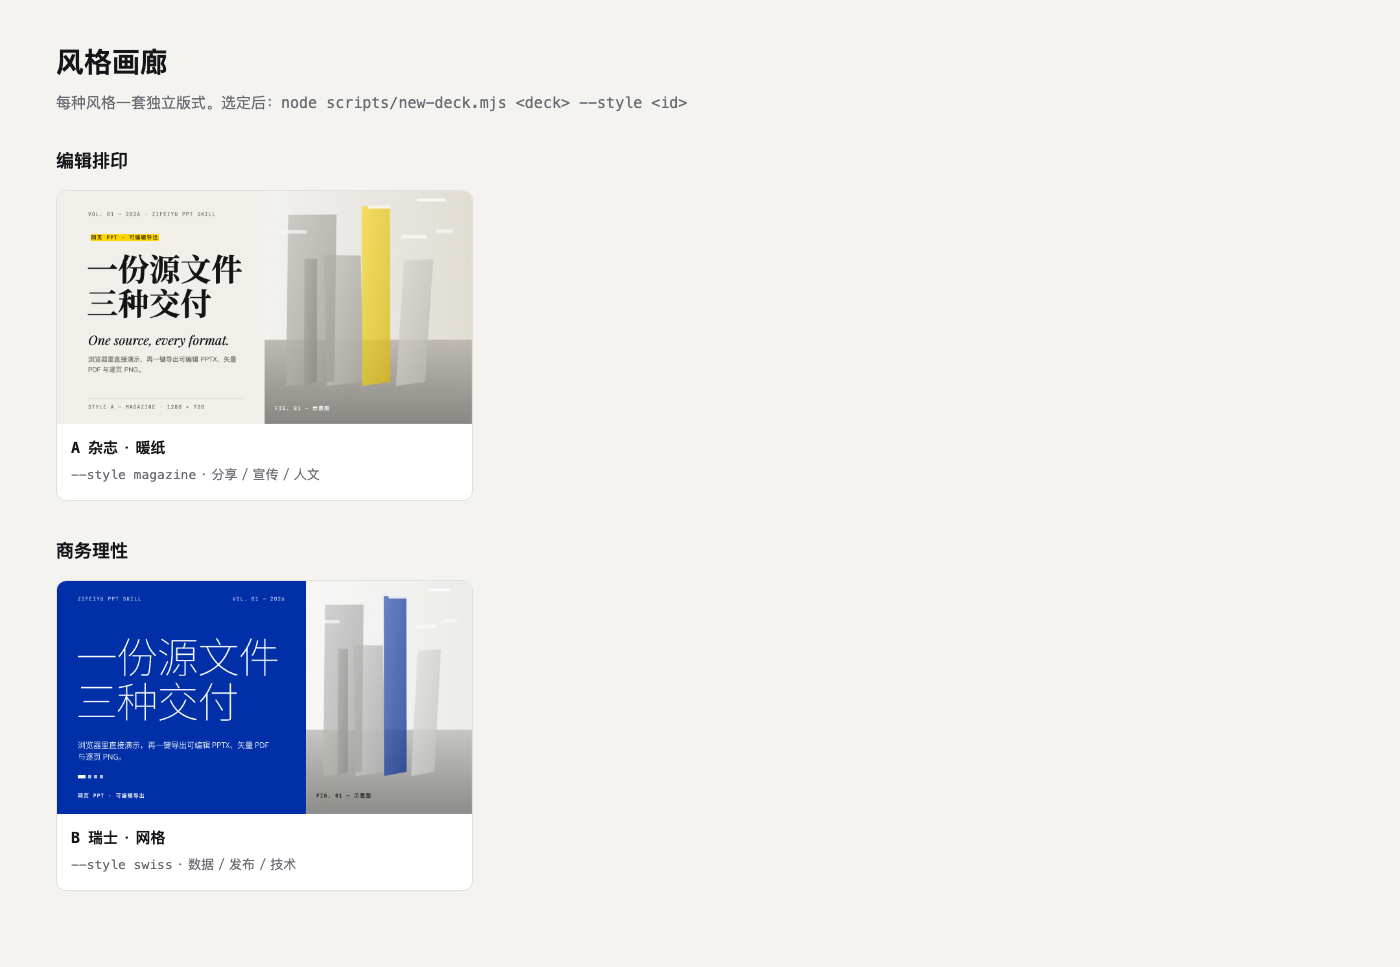
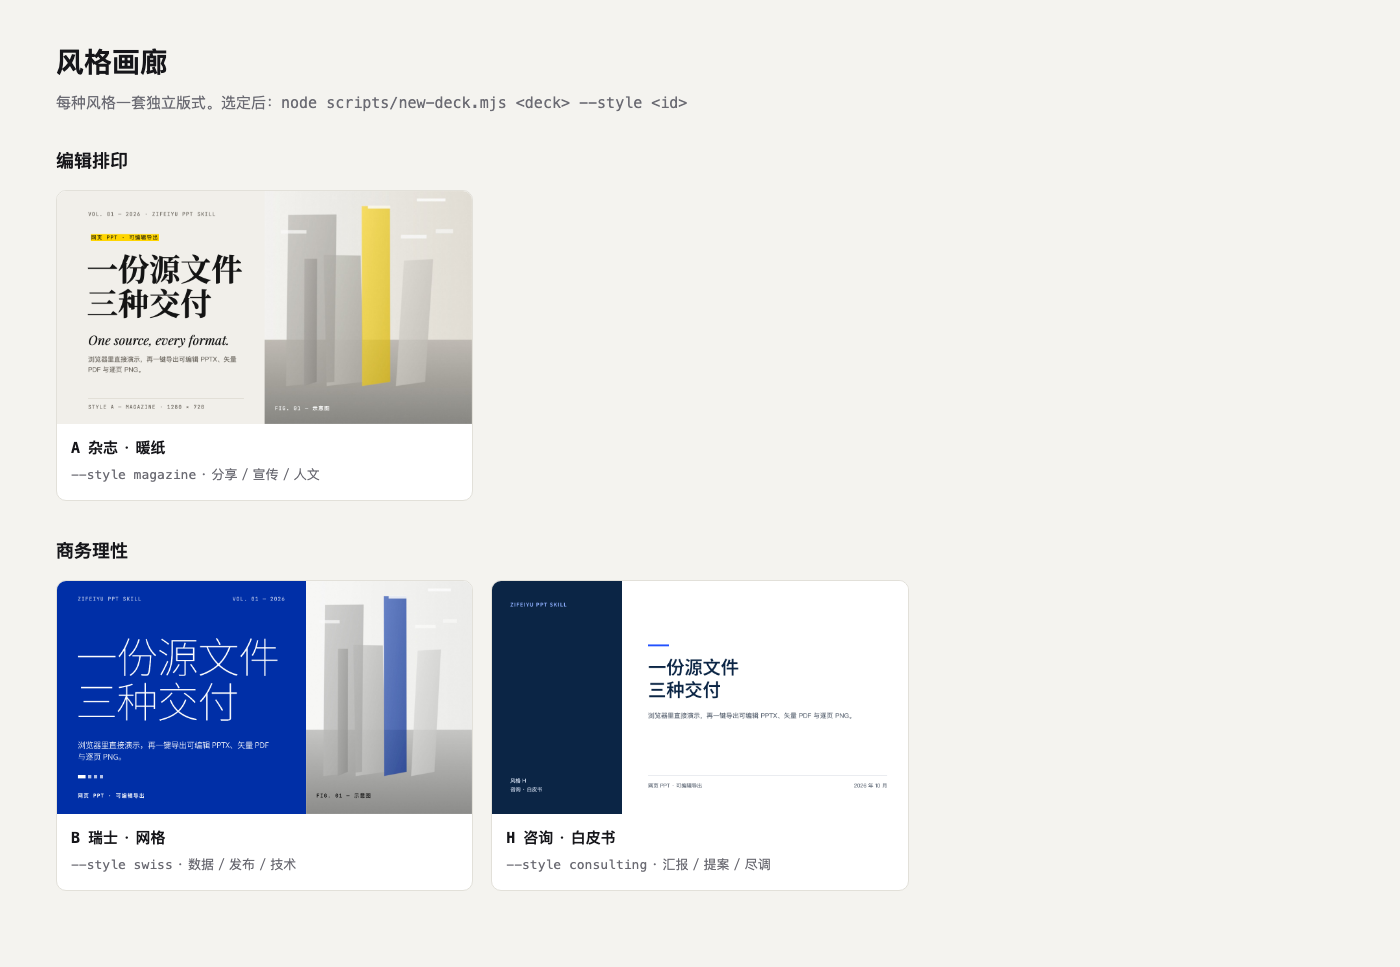
Ship style H consulting: ready, baseline, gallery, CI, docs

Changed region(s): [[0.3379, 0.5895, 0.5529, 0.8997]]

diff --git a/docs/styles/index.html b/docs/styles/index.html
@@ -52,6 +52,13 @@
           <p class="meta"><code>--style swiss</code> · 数据 / 发布 / 技术</p>
         </figcaption>
       </figure>
+      <figure class="card">
+        <img src="consulting.png" alt="咨询 · 白皮书 封面">
+        <figcaption>
+          <p class="name"><b>H</b>咨询 · 白皮书</p>
+          <p class="meta"><code>--style consulting</code> · 汇报 / 提案 / 尽调</p>
+        </figcaption>
+      </figure>
       </div>
     </section>
 </body>

diff --git a/ARCHITECTURE.md b/ARCHITECTURE.md
@@ -218,6 +218,7 @@ PPTX 导出后重新截图与 HTML 逐页比对，字体回退导致的溢出逐
 - **M10 · 风格库平台（P0）**：风格包结构（style.css / layouts.md / manifest.json / golden）与 20 角色层；base.css 瘦身为共用底座，旧设计层迁入 `assets/legacy/`；测量与导出新增圆角、描边、燕尾箭头、旋转、阴影、竖排、单元素隔离截图（顺带修掉 cover 图截图把遮罩文字烤进图片的旧问题）；文本框合并与动画改为骨架声明（`data-merge` / `data-anim`）；校验器 style 模式 + R16 导出一致性；`check-style` / `gen-art` / `style-gallery` / `regress.mjs`；swiss 原样迁成第一个风格包，像素回归 15/15 页 0.00%，PPTX 文本框结构逐页一致；`node --test` 单测进 CI。P1–P3 按 spec 交付其余 11 种风格。
 - **M11 · 风格 A 杂志（P1）**：第一个 ready 风格，18 个版式覆盖 12 个核心角色 + matrix / bars / table / gallery / video / audio；12 种风格共用的金样文字 `docs/golden-content.md`；数字改用 Playfair 等高数字（Office 映射 Times New Roman）；导出器补上整段斜体；gen-art 支持 JPEG 输出（金样配图从 MB 级降到几十 KB）。
 - **M12 · 风格 B 瑞士重做（P1）**：swiss 按确认样张重做为 17 个版式（12 栏网格、单一克莱因蓝、极细巨字、方块刻度），覆盖 12 个核心角色 + matrix / bars / table / cycle / system，新增蓝页 / 墨页两种页面状态；Inter 进字体源（Office 映射 Segoe UI）；旧 legacy `swiss` 设计系统随之退役。
+- **M13 · 风格 H 咨询（P1）**：17 个版式覆盖 12 个核心角色 + matrix / bars / table / cycle / system；每页「追踪标签 → 结论标题 → 图表编号 → 出处」，深海军蓝 + 一处亮蓝，海军蓝页状态；流程与对比用原生燕尾箭头，条形图可导出为原生图表（`--native-charts` 进 CI）。
 
 ## 9. 风险与对策
 

diff --git a/styles/consulting/layouts.md b/styles/consulting/layouts.md
@@ -1,6 +1,6 @@
 # 咨询 · 白皮书（consulting）版式注册表
 
-> 状态：draft · P1 制作中，已有 17 个版式；其余核心角色未完成前，交付请用其他风格。
+> 状态：ready · 17 个版式，覆盖全部 12 个核心角色 + matrix / bars / table / cycle / system。
 
 规则：整块复制骨架，只替换文字与图片路径；不得增删结构、不得改类名。骨架上的 `data-layout / data-role / data-merge / data-anim / data-source / data-value / data-label / data-chart / data-media` 是导出与动画的声明，原样保留（说明见 `references/roles.md`）。金样：`styles/consulting/golden/`；金样文字来自 `docs/golden-content.md`。
 

diff --git a/README.en.md b/README.en.md
@@ -8,7 +8,7 @@ The one-line difference from similar projects: beautiful HTML decks usually can'
 
 ## Style library
 
-12 styles, each with its own layout set — pick one at intake. Shipped: A Magazine, B Swiss; the rest follow the phased spec (`docs/superpowers/specs/2026-10-08-style-library-design.md`).
+12 styles, each with its own layout set — pick one at intake. Shipped: A Magazine, B Swiss, H Consulting; the rest follow the phased spec (`docs/superpowers/specs/2026-10-08-style-library-design.md`).
 
 ![style library](docs/styles/gallery.png)
 

diff --git a/README.md b/README.md
@@ -10,7 +10,7 @@
 
 ## 风格库
 
-12 种风格、每种独立版式集，开场先挑风格；已交付：A 杂志 · 暖纸、B 瑞士 · 网格，其余按 `docs/superpowers/specs/2026-10-08-style-library-design.md` 分期交付。
+12 种风格、每种独立版式集，开场先挑风格；已交付：A 杂志 · 暖纸、B 瑞士 · 网格、H 咨询 · 白皮书，其余按 `docs/superpowers/specs/2026-10-08-style-library-design.md` 分期交付。
 
 ![风格库](docs/styles/gallery.png)
 
